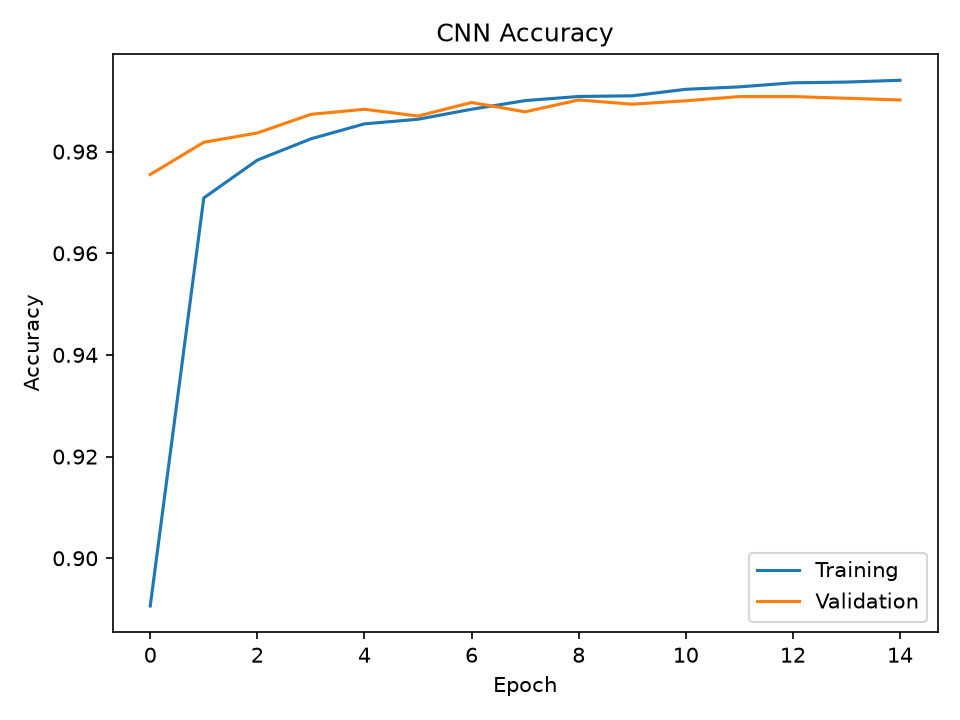
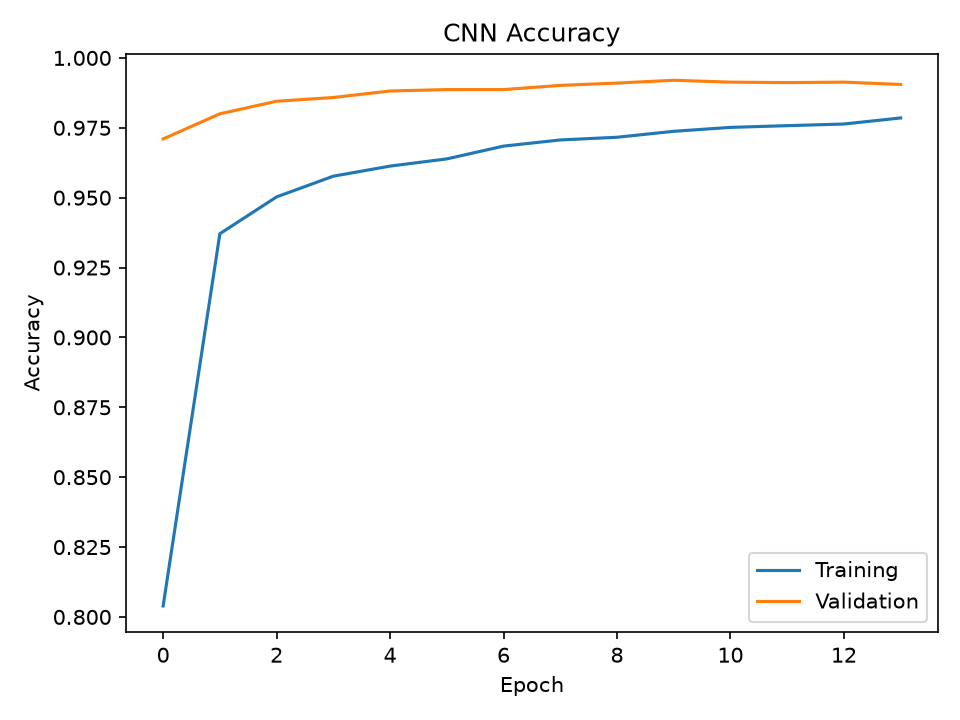
model outcomes

diff --git a/download_iam.py b/download_iam.py
@@ -1,0 +1,193 @@
+
+import os
+import tarfile
+import zipfile
+import hashlib
+import requests
+from pathlib import Path
+
+ZENODO_API = "https://zenodo.org/api/records/19003721"
+
+DATA_DIR = Path("data") / "iam"
+DOWNLOAD_DIR = DATA_DIR / "downloads"
+
+REQUIRED_FILES = [
+    "lines.tar",
+    "ascii.tar",
+    "largeWriterIndependentTextLineRecognitionTask.zip",
+]
+
+
+def verify_file(path, expected_size, expected_checksum):
+    """Check downloaded file size and checksum."""
+    if not path.exists():
+        return False
+
+    if path.stat().st_size != expected_size:
+        print(f"Incorrect file size: {path.name}")
+        return False
+
+    if expected_checksum:
+        algorithm, expected_hash = expected_checksum.split(":", 1)
+        hasher = hashlib.new(algorithm)
+
+        with open(path, "rb") as file:
+            for chunk in iter(lambda: file.read(1024 * 1024), b""):
+                hasher.update(chunk)
+
+        if hasher.hexdigest() != expected_hash:
+            print(f"Checksum failed: {path.name}")
+            return False
+
+    return True
+
+
+def download_file(url, destination, expected_size, checksum):
+    destination.parent.mkdir(parents=True, exist_ok=True)
+
+    if verify_file(destination, expected_size, checksum):
+        print(f"Already downloaded and verified: {destination.name}")
+        return
+
+    # Remove an incomplete or corrupted old file
+    if destination.exists():
+        print(f"Removing incomplete file: {destination.name}")
+        destination.unlink()
+
+    temp_file = destination.with_suffix(destination.suffix + ".part")
+
+    if temp_file.exists():
+        temp_file.unlink()
+
+    print(f"\nDownloading: {destination.name}")
+
+    try:
+        with requests.get(url, stream=True, timeout=(30, 120)) as response:
+            response.raise_for_status()
+
+            downloaded = 0
+
+            with open(temp_file, "wb") as file:
+                for chunk in response.iter_content(chunk_size=1024 * 1024):
+                    if chunk:
+                        file.write(chunk)
+                        downloaded += len(chunk)
+
+                        if expected_size:
+                            percent = downloaded * 100 / expected_size
+                            print(
+                                f"\rProgress: {percent:.1f}%",
+                                end="",
+                                flush=True,
+                            )
+
+        print()
+
+        if not verify_file(temp_file, expected_size, checksum):
+            raise ValueError(
+                f"Downloaded file failed verification: {destination.name}"
+            )
+
+        temp_file.replace(destination)
+        print(f"Download verified: {destination.name}")
+
+    except Exception:
+        if temp_file.exists():
+            temp_file.unlink()
+        raise
+
+
+def safe_extract_tar(archive, destination):
+    destination = destination.resolve()
+
+    print(f"\nChecking TAR archive: {archive.name}")
+
+    with tarfile.open(archive, "r:*") as tar:
+        members = tar.getmembers()
+
+        for member in members:
+            target = (destination / member.name).resolve()
+
+            if os.path.commonpath(
+                    [str(destination), str(target)]
+            ) != str(destination):
+                raise ValueError(f"Unsafe archive path: {member.name}")
+
+        print(f"Extracting {len(members)} items...")
+        tar.extractall(destination)
+
+    print(f"Extracted: {archive.name}")
+
+
+def safe_extract_zip(archive, destination):
+    destination = destination.resolve()
+
+    with zipfile.ZipFile(archive, "r") as zip_file:
+        for member in zip_file.infolist():
+            target = (destination / member.filename).resolve()
+
+            if os.path.commonpath(
+                    [str(destination), str(target)]
+            ) != str(destination):
+                raise ValueError(f"Unsafe archive path: {member.filename}")
+
+        print(f"\nExtracting: {archive.name}")
+        zip_file.extractall(destination)
+
+    print(f"Extracted: {archive.name}")
+
+
+def main():
+    DATA_DIR.mkdir(parents=True, exist_ok=True)
+    DOWNLOAD_DIR.mkdir(parents=True, exist_ok=True)
+
+    print("Connecting to Zenodo...")
+
+    response = requests.get(ZENODO_API, timeout=60)
+    response.raise_for_status()
+
+    record = response.json()
+
+    available_files = {
+        item["key"]: item
+        for item in record.get("files", [])
+    }
+
+    print("\nChecking IAM files...")
+
+    for filename in REQUIRED_FILES:
+        if filename not in available_files:
+            print(f"File not found on Zenodo: {filename}")
+            return
+
+    # Download and verify each required file
+    for filename in REQUIRED_FILES:
+        info = available_files[filename]
+
+        download_file(
+            url=info["links"]["self"],
+            destination=DOWNLOAD_DIR / filename,
+            expected_size=info["size"],
+            checksum=info.get("checksum"),
+        )
+
+    # Extract only after all files have passed verification
+    print("\nAll downloads verified. Starting extraction...")
+
+    for filename in REQUIRED_FILES:
+        archive = DOWNLOAD_DIR / filename
+
+        if filename.endswith(".tar"):
+            safe_extract_tar(archive, DATA_DIR)
+
+        elif filename.endswith(".zip"):
+            safe_extract_zip(archive, DATA_DIR)
+
+    print("\n====================================")
+    print("IAM DOWNLOAD AND EXTRACTION COMPLETE")
+    print("====================================")
+    print(f"Dataset folder: {DATA_DIR.resolve()}")
+
+
+if __name__ == "__main__":
+    main()

diff --git a/train_iam.py b/train_iam.py
@@ -28,14 +28,29 @@ WORKERS = 0  # Safe default for Windows; increase only if memory permits.
 MODEL_PATH = Path("iam_crnn_ctc.pth")
 
 
+
 def locate_file(root, candidates):
+    from pathlib import Path
+
+    root = Path(root)
+
+    # First check the expected locations
     for candidate in candidates:
         path = root / candidate
         if path.is_file():
             return path
+
+    # If not found, search inside all subfolders
+    for candidate in candidates:
+        filename = Path(candidate).name
+
+        matches = list(root.rglob(filename))
+
+        if matches:
+            return matches[0]
+
     raise FileNotFoundError(
-        f"Could not find any of {candidates} under {root}. "
-        "Check the IAM dataset folder structure."
+        f"Could not find any of {candidates} under {root}"
     )
 
 
@@ -75,7 +90,8 @@ def line_image_path(root, line_id):
     parts = line_id.split("-")
     if len(parts) < 3:
         raise ValueError(f"Unexpected IAM line ID: {line_id}")
-    return root / "lines" / parts[0] / "-".join(parts[:2]) / f"{line_id}.png"
+
+    return root / parts[0] / "-".join(parts[:2]) / f"{line_id}.png"
 
 
 class IAMLineDataset(Dataset):
